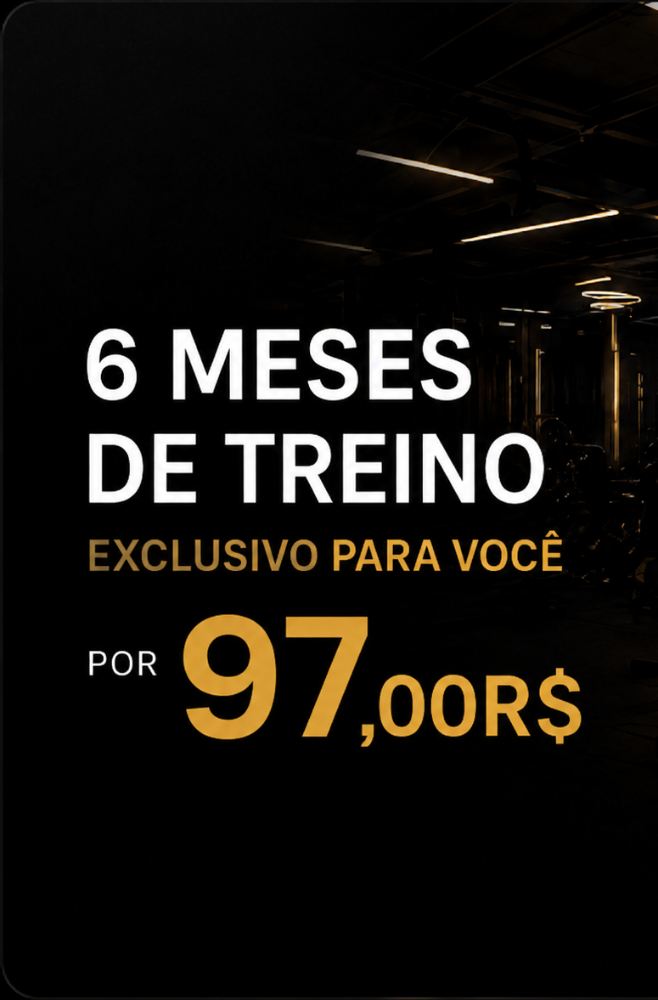
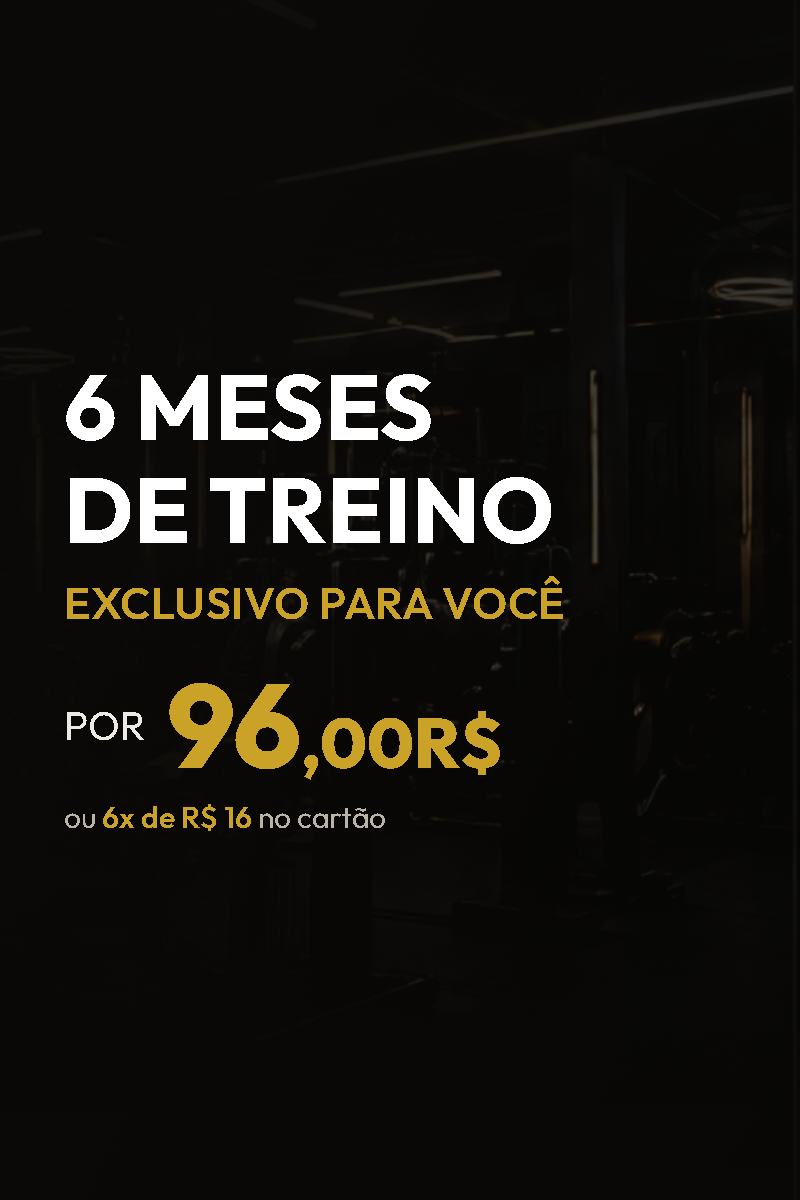
Oferta 6 meses reformulada: R$96, programas e GLUTE MAX/HYBRID PRO (pedido do cliente)
- Novo texto da oferta: 'O plano feito para você: hipertrofia,
  emagrecimento, condicionamento, força — escolha o seu desafio…'
- 'Acesso no app' vira 'Métodos avançados' (ícone alvo) nos dois layouts
- Botão vira ESCOLHER MEU PROGRAMA e abre a lista de programas
  (tela no celular, rolagem no computador); modal da oferta idem (ctaGoto)
- Preço R$97 -> R$96 com 'ou 6x de R$ 16' em letras miúdas na caixa de
  preço, no botão do hero e na arte (nova arte sem o 97 gravado;
  gerador em banners/banner-oferta.html; modal usa a mesma arte)
- Glúteo Protocol renomeado para GLUTE MAX (cards, rodapé, modal, catálogos)
- Novo programa HYBRID PRO (força + condicionamento) nos dois layouts,
  rodapé, DETAILS e catálogos do painel
- Modais dos programas mostram 'R$ 96 à vista ou 6x de R$ 16'

diff --git a/index.html b/index.html
@@ -167,7 +167,7 @@
         <img data-slot="oferta-texto" src="assets/oferta-texto.png" alt="6 meses de treino por R$97" style="width:118px; height:150px; flex:none; border-radius:10px; object-fit:cover; object-position:50% 50%; display:block;">
         <div style="flex:1;">
           <h2 style="margin:0; font-family:'Oswald',sans-serif; font-weight:700; font-style:italic; font-size:25px; line-height:0.96; letter-spacing:0.5px; background:linear-gradient(135deg,var(--c-secondary),var(--c-primary) 55%,var(--c-primary-darker)); -webkit-background-clip:text; background-clip:text; color:transparent;"><span data-text="oferta-titulo">6 MESES DE TREINO EXCLUSIVO</span></h2>
-          <p style="margin:8px 0 0; font-size:12px; color:#A9A399; line-height:1.5;"><span data-text="m-oferta-desc">Para você. Treino individualizado, progressão planejada e acompanhamento direto por 6 meses.</span></p>
+          <p style="margin:8px 0 0; font-size:12px; color:#A9A399; line-height:1.5;"><span data-text="m-oferta-desc">O plano feito para você: hipertrofia, emagrecimento, condicionamento, força — escolha o seu desafio…</span></p>
         </div>
       </div>
       <div style="display:flex; justify-content:space-around; gap:6px; margin:18px 0 16px; padding:0 2px;">
@@ -180,17 +180,18 @@
           <div style="font-family:'Oswald',sans-serif; font-weight:500; font-size:9.5px; letter-spacing:1px; color:#CFC9BE; margin-top:6px; line-height:1.3;">PROGRESSÃO<br>PLANEJADA</div>
         </div>
         <div style="text-align:center; flex:1;">
-          <i data-lucide="smartphone" width="22" height="22" style="color:var(--c-primary);"></i>
-          <div style="font-family:'Oswald',sans-serif; font-weight:500; font-size:9.5px; letter-spacing:1px; color:#CFC9BE; margin-top:6px; line-height:1.3;">ACESSO<br>NO APP</div>
+          <i data-lucide="target" width="22" height="22" style="color:var(--c-primary);"></i>
+          <div style="font-family:'Oswald',sans-serif; font-weight:500; font-size:9.5px; letter-spacing:1px; color:#CFC9BE; margin-top:6px; line-height:1.3;">MÉTODOS<br>AVANÇADOS</div>
         </div>
       </div>
       <div style="display:flex; gap:10px; align-items:stretch;">
         <div style="flex:none; width:110px; border:1.5px solid var(--c-primary); border-radius:8px; padding:8px 6px; text-align:center; background:rgba(var(--c-primary-rgb),0.06);">
           <div style="font-family:'Oswald',sans-serif; font-weight:500; font-size:9px; letter-spacing:2px; color:#9A958B;"><span data-text="oferta-apenas">APENAS</span></div>
-          <div style="font-family:'Oswald',sans-serif; font-weight:700; font-size:28px; line-height:1; color:var(--c-primary);"><span data-text="oferta-preco">R$97</span></div>
+          <div style="font-family:'Oswald',sans-serif; font-weight:700; font-size:28px; line-height:1; color:var(--c-primary);"><span data-text="oferta-preco">R$96</span></div>
+          <div style="font-size:9px; color:#8A857B; margin-top:3px;">ou 6x de R$ 16</div>
         </div>
-        <button data-detail="oferta" style="flex:1; background:linear-gradient(135deg,var(--c-primary),var(--c-primary-dark)); border:none; border-radius:8px; color:var(--c-bg); font-family:'Oswald',sans-serif; font-weight:700; letter-spacing:1px; font-size:13px; cursor:pointer; display:flex; align-items:center; justify-content:center; gap:8px;">
-          <span data-text="oferta-cta">QUERO MEU ACESSO</span> <i data-lucide="arrow-right" width="16" height="16"></i>
+        <button data-screen="programas" style="flex:1; background:linear-gradient(135deg,var(--c-primary),var(--c-primary-dark)); border:none; border-radius:8px; color:var(--c-bg); font-family:'Oswald',sans-serif; font-weight:700; letter-spacing:1px; font-size:13px; cursor:pointer; display:flex; align-items:center; justify-content:center; gap:8px;">
+          <span data-text="oferta-cta">ESCOLHER MEU PROGRAMA</span> <i data-lucide="arrow-right" width="16" height="16"></i>
         </button>
       </div>
     </div>
@@ -312,10 +313,10 @@
           </div>
         </div>
         <div data-detail="gluteoprotocol" style="position:relative; border:1px solid rgba(var(--c-primary-rgb),0.28); border-radius:14px; overflow:hidden; min-height:120px; display:flex; cursor:pointer;">
-          <img data-slot="prog-gluteo" src="assets/prog-gluteo.png" alt="Glúteo Protocol" style="width:118px; flex:none; align-self:stretch; object-fit:cover; object-position:72% 40%; display:block;">
+          <img data-slot="prog-gluteo" src="assets/prog-gluteo.png" alt="Glute Max" style="width:118px; flex:none; align-self:stretch; object-fit:cover; object-position:72% 40%; display:block;">
           <div style="flex:1; padding:16px 16px 16px 14px;">
             <div style="width:38px; height:38px; border-radius:10px; background:linear-gradient(135deg,var(--c-sg),var(--c-sh)); border:1px solid rgba(var(--c-primary-rgb),0.4); display:flex; align-items:center; justify-content:center; margin-bottom:8px;"><i data-lucide="heart" width="20" height="20" style="color:var(--c-primary);"></i></div>
-            <h3 style="margin:0; font-family:'Oswald',sans-serif; font-weight:600; font-size:18px; letter-spacing:0.5px;"><span data-text="prog-gluteoprotocol-nome">GLÚTEO PROTOCOL</span></h3>
+            <h3 style="margin:0; font-family:'Oswald',sans-serif; font-weight:600; font-size:18px; letter-spacing:0.5px;"><span data-text="prog-gluteoprotocol-nome">GLUTE MAX</span></h3>
             <div style="font-family:'Oswald',sans-serif; font-weight:500; font-size:10px; letter-spacing:1.5px; color:var(--c-primary); margin:2px 0 8px;"><span data-text="prog-gluteoprotocol-cat">CRESCIMENTO E DEFINIÇÃO</span></div>
             <span style="font-size:12px; color:var(--c-primary); display:inline-flex; align-items:center; gap:5px;">Saiba mais <i data-lucide="arrow-right" width="13" height="13"></i></span>
           </div>
@@ -335,6 +336,15 @@
             <div style="width:38px; height:38px; border-radius:10px; background:linear-gradient(135deg,var(--c-sg),var(--c-sh)); border:1px solid rgba(var(--c-primary-rgb),0.4); display:flex; align-items:center; justify-content:center; margin-bottom:8px;"><i data-lucide="zap" width="20" height="20" style="color:var(--c-primary);"></i></div>
             <h3 style="margin:0; font-family:'Oswald',sans-serif; font-weight:600; font-size:18px; letter-spacing:0.5px;"><span data-text="prog-pump100-nome">PUMP 100</span></h3>
             <div style="font-family:'Oswald',sans-serif; font-weight:500; font-size:10px; letter-spacing:1.5px; color:var(--c-primary); margin:2px 0 8px;"><span data-text="prog-pump100-cat">HIPERTROFIA</span></div>
+            <span style="font-size:12px; color:var(--c-primary); display:inline-flex; align-items:center; gap:5px;">Saiba mais <i data-lucide="arrow-right" width="13" height="13"></i></span>
+          </div>
+        </div>
+        <div data-detail="hybridpro" style="position:relative; border:1px solid rgba(var(--c-primary-rgb),0.28); border-radius:14px; overflow:hidden; min-height:120px; display:flex; cursor:pointer;">
+          <img data-slot="oferta-gym" src="assets/oferta-gym.png" alt="Hybrid Pro" style="width:118px; flex:none; align-self:stretch; object-fit:cover; object-position:50% 40%; display:block;">
+          <div style="flex:1; padding:16px 16px 16px 14px;">
+            <div style="width:38px; height:38px; border-radius:10px; background:linear-gradient(135deg,var(--c-sg),var(--c-sh)); border:1px solid rgba(var(--c-primary-rgb),0.4); display:flex; align-items:center; justify-content:center; margin-bottom:8px;"><i data-lucide="activity" width="20" height="20" style="color:var(--c-primary);"></i></div>
+            <h3 style="margin:0; font-family:'Oswald',sans-serif; font-weight:600; font-size:18px; letter-spacing:0.5px;"><span data-text="prog-hybridpro-nome">HYBRID PRO</span></h3>
+            <div style="font-family:'Oswald',sans-serif; font-weight:500; font-size:10px; letter-spacing:1.5px; color:var(--c-primary); margin:2px 0 8px;"><span data-text="prog-hybridpro-cat">FORÇA + CONDICIONAMENTO</span></div>
             <span style="font-size:12px; color:var(--c-primary); display:inline-flex; align-items:center; gap:5px;">Saiba mais <i data-lucide="arrow-right" width="13" height="13"></i></span>
           </div>
         </div>
@@ -438,7 +448,7 @@
         <p style="margin:0 0 34px; max-width:440px; font-size:16px; color:#A9A399; line-height:1.7;"><span data-text="d-hero-desc">Transforme seu corpo e sua vida com método, disciplina e acompanhamento individualizado. Resultados de verdade, do seu jeito.</span></p>
         <div style="display:flex; gap:16px;">
           <button data-nav="programas" style="display:flex; align-items:center; gap:12px; padding:16px 30px; background:linear-gradient(135deg,var(--c-primary),var(--c-primary-dark)); border:none; border-radius:8px; color:var(--c-bg); font-family:'Oswald',sans-serif; font-weight:700; letter-spacing:1px; font-size:15px; cursor:pointer;"><span data-text="cta-servicos">6 MESES DE TREINO EXCLUSIVO</span> <svg width="18" height="18" viewBox="0 0 24 24" fill="none" stroke="#0A0908" stroke-width="2.4" stroke-linecap="round" stroke-linejoin="round"><line x1="5" y1="12" x2="19" y2="12"></line><polyline points="12 5 19 12 12 19"></polyline></svg></button>
-          <button data-detail="oferta" style="display:flex; align-items:center; gap:10px; padding:16px 30px; background:transparent; border:1.5px solid rgba(var(--c-primary-rgb),0.55); border-radius:8px; color:#fff; font-family:'Oswald',sans-serif; font-weight:600; letter-spacing:1px; font-size:15px; cursor:pointer;"><span data-text="d-hero-oferta-btn">OFERTA R$97</span></button>
+          <button data-detail="oferta" style="display:flex; align-items:center; gap:10px; padding:16px 30px; background:transparent; border:1.5px solid rgba(var(--c-primary-rgb),0.55); border-radius:8px; color:#fff; font-family:'Oswald',sans-serif; font-weight:600; letter-spacing:1px; font-size:15px; cursor:pointer;"><span data-text="d-hero-oferta-btn">OFERTA R$96</span></button>
         </div>
       </div>
       <div style="position:relative; align-self:stretch; min-height:660px;">
@@ -565,11 +575,11 @@
         </div>
         <!-- Glúteo Protocol -->
         <div data-detail="gluteoprotocol" style="position:relative; min-height:300px; border:1px solid rgba(var(--c-primary-rgb),0.25); border-radius:16px; overflow:hidden; cursor:pointer;">
-          <img data-slot="prog-gluteo" src="assets/prog-gluteo.png" alt="Glúteo Protocol" style="position:absolute; inset:0; width:100%; height:100%; object-fit:cover; object-position:75% 40%;">
+          <img data-slot="prog-gluteo" src="assets/prog-gluteo.png" alt="Glute Max" style="position:absolute; inset:0; width:100%; height:100%; object-fit:cover; object-position:75% 40%;">
           <div style="position:absolute; inset:0; background:linear-gradient(180deg,rgba(var(--c-bg-rgb),0.55),rgba(var(--c-bg-rgb),0.92) 60%);"></div>
           <div style="position:relative; padding:26px;">
             <div style="width:48px; height:48px; border-radius:12px; background:linear-gradient(135deg,var(--c-sg),var(--c-sh)); border:1px solid rgba(var(--c-primary-rgb),0.45); display:flex; align-items:center; justify-content:center; margin-bottom:120px;"><i data-lucide="heart" width="24" height="24" style="color:var(--c-primary);"></i></div>
-            <h3 style="margin:0; font-family:'Oswald',sans-serif; font-weight:600; font-size:26px;"><span data-text="prog-gluteoprotocol-nome">GLÚTEO PROTOCOL</span></h3>
+            <h3 style="margin:0; font-family:'Oswald',sans-serif; font-weight:600; font-size:26px;"><span data-text="prog-gluteoprotocol-nome">GLUTE MAX</span></h3>
             <div style="font-family:'Oswald',sans-serif; font-weight:500; font-size:11px; letter-spacing:2px; color:var(--c-primary); margin:4px 0 12px;"><span data-text="prog-gluteoprotocol-cat">CRESCIMENTO E DEFINIÇÃO</span></div>
             <p style="margin:0 0 14px; font-size:13.5px; color:#C3BDB2; line-height:1.55;"><span data-text="d-prog-gluteoprotocol-desc">Treinos e estratégias específicas para desenvolver, levantar e definir seus glúteos.</span></p>
             <span style="font-size:13px; color:var(--c-primary); display:inline-flex; align-items:center; gap:6px;">Saiba mais <svg width="14" height="14" viewBox="0 0 24 24" fill="none" stroke="currentColor" stroke-width="2.4" stroke-linecap="round" stroke-linejoin="round"><line x1="5" y1="12" x2="19" y2="12"></line><polyline points="12 5 19 12 12 19"></polyline></svg></span>
@@ -596,6 +606,18 @@
             <h3 style="margin:0; font-family:'Oswald',sans-serif; font-weight:600; font-size:26px;"><span data-text="prog-pump100-nome">PUMP 100</span></h3>
             <div style="font-family:'Oswald',sans-serif; font-weight:500; font-size:11px; letter-spacing:2px; color:var(--c-primary); margin:4px 0 12px;"><span data-text="prog-pump100-cat">HIPERTROFIA</span></div>
             <p style="margin:0 0 14px; font-size:13.5px; color:#C3BDB2; line-height:1.55;"><span data-text="d-prog-pump100-desc">Métodos avançados de treino para maximizar o ganho de massa muscular.</span></p>
+            <span style="font-size:13px; color:var(--c-primary); display:inline-flex; align-items:center; gap:6px;">Saiba mais <svg width="14" height="14" viewBox="0 0 24 24" fill="none" stroke="currentColor" stroke-width="2.4" stroke-linecap="round" stroke-linejoin="round"><line x1="5" y1="12" x2="19" y2="12"></line><polyline points="12 5 19 12 12 19"></polyline></svg></span>
+          </div>
+        </div>
+        <!-- Hybrid Pro -->
+        <div data-detail="hybridpro" style="position:relative; min-height:300px; border:1px solid rgba(var(--c-primary-rgb),0.25); border-radius:16px; overflow:hidden; cursor:pointer;">
+          <img data-slot="oferta-gym" src="assets/oferta-gym.png" alt="Hybrid Pro" style="position:absolute; inset:0; width:100%; height:100%; object-fit:cover; object-position:50% 45%;">
+          <div style="position:absolute; inset:0; background:linear-gradient(180deg,rgba(var(--c-bg-rgb),0.55),rgba(var(--c-bg-rgb),0.92) 60%);"></div>
+          <div style="position:relative; padding:26px;">
+            <div style="width:48px; height:48px; border-radius:12px; background:linear-gradient(135deg,var(--c-sg),var(--c-sh)); border:1px solid rgba(var(--c-primary-rgb),0.45); display:flex; align-items:center; justify-content:center; margin-bottom:120px;"><i data-lucide="activity" width="24" height="24" style="color:var(--c-primary);"></i></div>
+            <h3 style="margin:0; font-family:'Oswald',sans-serif; font-weight:600; font-size:26px;"><span data-text="prog-hybridpro-nome">HYBRID PRO</span></h3>
+            <div style="font-family:'Oswald',sans-serif; font-weight:500; font-size:11px; letter-spacing:2px; color:var(--c-primary); margin:4px 0 12px;"><span data-text="prog-hybridpro-cat">FORÇA + CONDICIONAMENTO</span></div>
+            <p style="margin:0 0 14px; font-size:13.5px; color:#C3BDB2; line-height:1.55;"><span data-text="d-prog-hybridpro-desc">Força e condicionamento no mesmo programa, para performance completa.</span></p>
             <span style="font-size:13px; color:var(--c-primary); display:inline-flex; align-items:center; gap:6px;">Saiba mais <svg width="14" height="14" viewBox="0 0 24 24" fill="none" stroke="currentColor" stroke-width="2.4" stroke-linecap="round" stroke-linejoin="round"><line x1="5" y1="12" x2="19" y2="12"></line><polyline points="12 5 19 12 12 19"></polyline></svg></span>
           </div>
         </div>
@@ -645,18 +667,19 @@
         <div style="padding:46px 50px;">
           <div style="font-family:'Oswald',sans-serif; font-weight:500; letter-spacing:4px; font-size:12px; color:var(--c-primary); margin-bottom:14px;"><span data-text="d-oferta-kicker">OFERTA ESPECIAL</span></div>
           <h2 style="margin:0; font-family:'Oswald',sans-serif; font-weight:700; font-style:italic; font-size:44px; line-height:0.98; background:linear-gradient(135deg,var(--c-secondary),var(--c-primary) 55%,var(--c-primary-darker)); -webkit-background-clip:text; background-clip:text; color:transparent;"><span data-text="oferta-titulo">6 MESES DE TREINO EXCLUSIVO</span></h2>
-          <p style="margin:16px 0 26px; max-width:520px; font-size:15px; color:#A9A399; line-height:1.65;"><span data-text="d-oferta-desc">Para você. Treino individualizado, progressão planejada e acompanhamento direto por 6 meses — tudo pelo aplicativo.</span></p>
+          <p style="margin:16px 0 26px; max-width:520px; font-size:15px; color:#A9A399; line-height:1.65;"><span data-text="d-oferta-desc">O plano feito para você: hipertrofia, emagrecimento, condicionamento, força — escolha o seu desafio…</span></p>
           <div style="display:flex; gap:40px; margin-bottom:30px;">
             <div style="display:flex; align-items:center; gap:12px;"><i data-lucide="calendar-check" width="26" height="26" style="color:var(--c-primary);"></i><span style="font-family:'Oswald',sans-serif; font-weight:500; font-size:12px; letter-spacing:1px; color:#CFC9BE;">6 MESES<br>DE TREINO</span></div>
             <div style="display:flex; align-items:center; gap:12px;"><i data-lucide="trending-up" width="26" height="26" style="color:var(--c-primary);"></i><span style="font-family:'Oswald',sans-serif; font-weight:500; font-size:12px; letter-spacing:1px; color:#CFC9BE;">PROGRESSÃO<br>PLANEJADA</span></div>
-            <div style="display:flex; align-items:center; gap:12px;"><i data-lucide="smartphone" width="26" height="26" style="color:var(--c-primary);"></i><span style="font-family:'Oswald',sans-serif; font-weight:500; font-size:12px; letter-spacing:1px; color:#CFC9BE;">ACESSO<br>NO APP</span></div>
+            <div style="display:flex; align-items:center; gap:12px;"><i data-lucide="target" width="26" height="26" style="color:var(--c-primary);"></i><span style="font-family:'Oswald',sans-serif; font-weight:500; font-size:12px; letter-spacing:1px; color:#CFC9BE;">MÉTODOS<br>AVANÇADOS</span></div>
           </div>
           <div style="display:flex; align-items:stretch; gap:18px;">
             <div style="flex:none; border:1.5px solid var(--c-primary); border-radius:12px; padding:12px 26px; text-align:center; background:rgba(var(--c-primary-rgb),0.06);">
               <div style="font-family:'Oswald',sans-serif; font-weight:500; font-size:10px; letter-spacing:3px; color:#9A958B;"><span data-text="oferta-apenas">APENAS</span></div>
-              <div style="font-family:'Oswald',sans-serif; font-weight:700; font-size:46px; line-height:1; color:var(--c-primary);"><span data-text="oferta-preco">R$97</span></div>
+              <div style="font-family:'Oswald',sans-serif; font-weight:700; font-size:46px; line-height:1; color:var(--c-primary);"><span data-text="oferta-preco">R$96</span></div>
+              <div style="font-size:11px; color:#8A857B; margin-top:4px;">ou 6x de R$ 16</div>
             </div>
-            <button data-detail="oferta" style="flex:1; max-width:340px; background:linear-gradient(135deg,var(--c-primary),var(--c-primary-dark)); border:none; border-radius:12px; color:var(--c-bg); font-family:'Oswald',sans-serif; font-weight:700; letter-spacing:1px; font-size:16px; cursor:pointer; display:flex; align-items:center; justify-content:center; gap:10px;"><span data-text="oferta-cta">QUERO MEU ACESSO</span> <svg width="18" height="18" viewBox="0 0 24 24" fill="none" stroke="#0A0908" stroke-width="2.4" stroke-linecap="round" stroke-linejoin="round"><line x1="5" y1="12" x2="19" y2="12"></line><polyline points="12 5 19 12 12 19"></polyline></svg></button>
+            <button data-nav="programas" style="flex:1; max-width:340px; background:linear-gradient(135deg,var(--c-primary),var(--c-primary-dark)); border:none; border-radius:12px; color:var(--c-bg); font-family:'Oswald',sans-serif; font-weight:700; letter-spacing:1px; font-size:16px; cursor:pointer; display:flex; align-items:center; justify-content:center; gap:10px;"><span data-text="oferta-cta">ESCOLHER MEU PROGRAMA</span> <svg width="18" height="18" viewBox="0 0 24 24" fill="none" stroke="#0A0908" stroke-width="2.4" stroke-linecap="round" stroke-linejoin="round"><line x1="5" y1="12" x2="19" y2="12"></line><polyline points="12 5 19 12 12 19"></polyline></svg></button>
           </div>
         </div>
       </div>
@@ -732,9 +755,10 @@
         <div style="font-family:'Oswald',sans-serif; font-weight:600; letter-spacing:1.5px; font-size:14px; color:#fff; margin-bottom:18px;">PROGRAMAS</div>
         <div style="display:flex; flex-direction:column; gap:12px;">
           <a data-detail="fitslim" style="cursor:pointer; font-size:14px; color:#A9A399;">Fit Slim</a>
-          <a data-detail="gluteoprotocol" style="cursor:pointer; font-size:14px; color:#A9A399;">Glúteo Protocol</a>
+          <a data-detail="gluteoprotocol" style="cursor:pointer; font-size:14px; color:#A9A399;">Glute Max</a>
           <a data-detail="gorilla" style="cursor:pointer; font-size:14px; color:#A9A399;">Gorilla Strength</a>
           <a data-detail="pump100" style="cursor:pointer; font-size:14px; color:#A9A399;">Pump 100</a>
+          <a data-detail="hybridpro" style="cursor:pointer; font-size:14px; color:#A9A399;">Hybrid Pro</a>
         </div>
       </div>
       <div>
@@ -820,11 +844,12 @@ var DETAILS = {
     cta: 'FALAR NO WHATSAPP', ctaNote: 'Atendimento exclusivo e limitado. Fale comigo para verificar disponibilidade.', img: 'assets/poster-personal.png', msg: 'Olá, Lucas! Tenho interesse no Personal Presencial. Ainda há disponibilidade?' },
   avaliacao: { kicker: 'SERVIÇO', title: 'AVALIAÇÃO FÍSICA', desc: 'Análise completa da sua composição corporal e do seu condicionamento para construir um plano 100% personalizado.', points: ['Anamnese', 'Avaliação física (dobras cutâneas)', 'Avaliação da força e resistência', 'Condicionamento aeróbico'], cta: 'AGENDAR AVALIAÇÃO', ctaNote: 'Agende sua avaliação física completa.', img: 'assets/poster-avaliacao.png', msg: 'Olá, Lucas! Quero agendar uma Avaliação Física.' },
   nutricional: { kicker: 'EM BREVE', title: 'ATENDIMENTO NUTRICIONAL ONLINE', desc: 'Em breve: a nutrição certa para potencializar seus resultados, integrada ao seu treino.', points: [], cta: 'QUERO SER AVISADO', ctaNote: 'Entre na lista de espera e seja avisado no lançamento.', img: 'assets/poster-nutricional.png', msg: 'Olá, Lucas! Quero entrar na lista de espera do Atendimento Nutricional Online.' },
-  oferta: { kicker: 'OFERTA ESPECIAL', title: '6 MESES DE TREINO EXCLUSIVO', desc: '6 meses de treino exclusivo para você por apenas R$97,00. Treino individualizado, progressão planejada e acompanhamento direto.', points: ['6 meses de treino exclusivo', 'Progressão planejada', 'Acesso pelo aplicativo', 'Suporte direto com o Lucas'], cta: 'QUERO MEU ACESSO — R$97', ctaNote: 'Vagas limitadas por esse valor.', img: 'assets/oferta.png', msg: 'Olá, Lucas! Quero garantir a oferta de 6 meses de treino por R$97.' },
-  fitslim: { kicker: 'EMAGRECIMENTO', title: 'FIT SLIM', desc: 'Protocolo completo para queimar gordura, acelerar o metabolismo e definir o corpo.', points: ['Treino focado em emagrecimento', 'Estratégias para acelerar o metabolismo', 'Progressão planejada', 'Acompanhamento pelo app'], cta: 'QUERO O FIT SLIM', ctaNote: 'Comece sua transformação agora.', img: 'assets/prog-fitslim.png', msg: 'Olá, Lucas! Quero começar o programa FIT SLIM.' },
-  gluteoprotocol: { kicker: 'CRESCIMENTO E DEFINIÇÃO', title: 'GLÚTEO PROTOCOL', desc: 'Treinos e estratégias específicas para desenvolver, levantar e definir seus glúteos.', points: ['Treino específico para glúteos', 'Técnicas de ativação e crescimento', 'Progressão semanal', 'Acompanhamento pelo app'], cta: 'QUERO O PROTOCOL', ctaNote: 'Construa o resultado que você procura.', img: 'assets/prog-gluteo.png', msg: 'Olá, Lucas! Quero começar o GLÚTEO PROTOCOL.' },
-  gorilla: { kicker: 'GANHO DE FORÇA', title: 'GORILLA STRENGTH', desc: 'Programa focado em força máxima, performance e evolução constante.', points: ['Periodização de força', 'Foco em performance', 'Progressão de cargas planejada', 'Acompanhamento pelo app'], cta: 'QUERO O GORILLA', ctaNote: 'Evolua sua força de forma constante.', img: 'assets/prog-gorilla.png', msg: 'Olá, Lucas! Quero começar o GORILLA STRENGTH.' },
-  pump100: { kicker: 'HIPERTROFIA', title: 'PUMP 100', desc: 'Métodos avançados de treino para maximizar o ganho de massa muscular.', points: ['Métodos avançados de hipertrofia', 'Volume e intensidade otimizados', 'Progressão planejada', 'Acompanhamento pelo app'], cta: 'QUERO O PUMP 100', ctaNote: 'Maximize seu ganho de massa.', img: 'assets/prog-pump100.png', msg: 'Olá, Lucas! Quero começar o PUMP 100.' },
+  oferta: { kicker: 'OFERTA ESPECIAL', title: '6 MESES DE TREINO EXCLUSIVO', desc: 'O plano feito para você: hipertrofia, emagrecimento, condicionamento, força — escolha o seu desafio. 6 meses de treino exclusivo por R$ 96 à vista ou 6x de R$ 16.', points: ['6 meses de treino exclusivo', 'Progressão planejada', 'Métodos avançados', 'Suporte direto com o Lucas'], cta: 'ESCOLHER MEU PROGRAMA', ctaGoto: 'programas', ctaNote: 'R$ 96 à vista ou 6x de R$ 16 — vagas limitadas.', img: 'assets/oferta-texto.png', msg: 'Olá, Lucas! Quero garantir os 6 meses de treino por R$ 96.' },
+  fitslim: { kicker: 'EMAGRECIMENTO', title: 'FIT SLIM', desc: 'Protocolo completo para queimar gordura, acelerar o metabolismo e definir o corpo.', points: ['Treino focado em emagrecimento', 'Estratégias para acelerar o metabolismo', 'Progressão planejada', 'Acompanhamento pelo app'], cta: 'QUERO O FIT SLIM', ctaNote: 'R$ 96 à vista ou 6x de R$ 16.', img: 'assets/prog-fitslim.png', msg: 'Olá, Lucas! Quero começar o programa FIT SLIM.' },
+  gluteoprotocol: { kicker: 'CRESCIMENTO E DEFINIÇÃO', title: 'GLUTE MAX', desc: 'Treinos e estratégias específicas para desenvolver, levantar e definir seus glúteos.', points: ['Treino específico para glúteos', 'Técnicas de ativação e crescimento', 'Progressão semanal', 'Métodos avançados'], cta: 'QUERO O GLUTE MAX', ctaNote: 'R$ 96 à vista ou 6x de R$ 16.', img: 'assets/prog-gluteo.png', msg: 'Olá, Lucas! Quero começar o GLUTE MAX.' },
+  gorilla: { kicker: 'GANHO DE FORÇA', title: 'GORILLA STRENGTH', desc: 'Programa focado em força máxima, performance e evolução constante.', points: ['Periodização de força', 'Foco em performance', 'Progressão de cargas planejada', 'Acompanhamento pelo app'], cta: 'QUERO O GORILLA', ctaNote: 'R$ 96 à vista ou 6x de R$ 16.', img: 'assets/prog-gorilla.png', msg: 'Olá, Lucas! Quero começar o GORILLA STRENGTH.' },
+  pump100: { kicker: 'HIPERTROFIA', title: 'PUMP 100', desc: 'Métodos avançados de treino para maximizar o ganho de massa muscular.', points: ['Métodos avançados de hipertrofia', 'Volume e intensidade otimizados', 'Progressão planejada', 'Acompanhamento pelo app'], cta: 'QUERO O PUMP 100', ctaNote: 'R$ 96 à vista ou 6x de R$ 16.', img: 'assets/prog-pump100.png', msg: 'Olá, Lucas! Quero começar o PUMP 100.' },
+  hybridpro: { kicker: 'FORÇA + CONDICIONAMENTO', title: 'HYBRID PRO', desc: 'Força e condicionamento no mesmo programa, para performance completa.', points: ['Força e aeróbico integrados', 'Progressão planejada', 'Métodos avançados', 'Suporte direto com o Lucas'], cta: 'QUERO O HYBRID PRO', ctaNote: 'R$ 96 à vista ou 6x de R$ 16.', img: 'assets/oferta-gym.png', msg: 'Olá, Lucas! Quero começar o HYBRID PRO.' },
   consultoriapremium: { kicker: 'ONLINE', title: 'CONSULTORIA PREMIUM', desc: 'Acompanhamento individualizado 100% online com suporte diário e ajustes estratégicos.', points: ['Suporte diário com o Lucas', 'Ajustes estratégicos contínuos', 'Plano de treino e dieta', 'Acompanhamento premium pelo app'], cta: 'FALAR NO WHATSAPP', ctaNote: 'Vagas limitadas. Fale comigo para verificar disponibilidade.', img: 'assets/prog-premium.png', msg: 'Olá, Lucas! Tenho interesse na Consultoria Premium. Ainda há vagas?' },
   resultados: { kicker: 'TRANSFORMAÇÕES', title: 'RESULTADOS REAIS', desc: 'Resultados reais de alunos que confiaram no método e transformaram o corpo e a vida.', points: [], cta: 'QUERO ESSES RESULTADOS', ctaNote: 'Seja o próximo resultado real.', img: 'assets/resultado-1.jpg', msg: 'Olá, Lucas! Vi os resultados no site e quero começar minha transformação.' },
   sobre: { kicker: 'SOBRE MIM', title: 'LUCAS GONÇALVES', desc: 'Sou Lucas Gonçalves, personal trainer e especialista em hipertrofia, emagrecimento e performance. Meu objetivo é transformar vidas através de método, disciplina e acompanhamento individualizado.', points: ['+500 alunos transformados', 'Experiência comprovada', 'Atendimento individualizado', 'Método que gera resultado'], cta: 'FALAR COMIGO', ctaNote: 'Vamos construir o seu resultado juntos.', img: 'assets/sobre.jpg', msg: 'Olá, Lucas! Vim pelo site e quero saber mais sobre o seu acompanhamento.' },
@@ -897,7 +922,8 @@ function fillDetail(id){
     g('desc').hidden = !d.desc;
     g('ctanote').textContent = d.ctaNote;
     g('cta-label').textContent = d.cta;
-    g('cta').setAttribute('data-wa', id);
+    if (d.ctaGoto) { g('cta').setAttribute('data-goto', d.ctaGoto); g('cta').removeAttribute('data-wa'); }
+    else { g('cta').setAttribute('data-wa', id); g('cta').removeAttribute('data-goto'); }
     var has = d.points && d.points.length;
     g('points').hidden = !has;
     g('points-list').innerHTML = !has ? '' : d.points.map(function(pt){
@@ -978,6 +1004,11 @@ document.addEventListener('click', function(e){
   if ((t = e.target.closest('[data-acc]')))    { var s = el('m-menu-servicos'); s.hidden = !s.hidden; return; }
   if ((t = e.target.closest('[data-nav]')))    { navTo(t.getAttribute('data-nav')); return; }
   if ((t = e.target.closest('[data-screen]'))) { showScreen(t.getAttribute('data-screen')); return; }
+  if ((t = e.target.closest('[data-goto]'))) {
+    var alvo = t.getAttribute('data-goto');
+    if (window.matchMedia('(min-width:1020px)').matches) navTo(alvo); else showScreen(alvo);
+    return;
+  }
   if ((t = e.target.closest('[data-wa]')))     { openWA(t.getAttribute('data-wa')); return; }
   if ((t = e.target.closest('[data-detail]'))) { openDetail(t.getAttribute('data-detail')); return; }
   if ((t = e.target.closest('[data-ig]')))     { window.open('https://instagram.com/' + INSTAGRAM, '_blank'); return; }

diff --git a/banners/banner-oferta.html b/banners/banner-oferta.html
@@ -1,0 +1,39 @@
+<!doctype html>
+<html>
+<head>
+<meta charset="utf-8">
+<link rel="preconnect" href="https://fonts.googleapis.com">
+<link rel="preconnect" href="https://fonts.gstatic.com" crossorigin>
+<link href="https://fonts.googleapis.com/css2?family=Outfit:wght@400;600;700;800&display=swap" rel="stylesheet">
+<style>
+  *{ margin:0; padding:0; box-sizing:border-box; }
+  html,body{ width:800px; height:1200px; overflow:hidden; }
+  .stage{ position:relative; width:800px; height:1200px; background:#0A0908; font-family:'Outfit',sans-serif; overflow:hidden; }
+  .gym{ position:absolute; inset:0; width:100%; height:100%; object-fit:cover; object-position:70% 30%; opacity:0.55; }
+  .fade{ position:absolute; inset:0; background:linear-gradient(115deg, rgba(10,9,8,0.92) 30%, rgba(10,9,8,0.55) 60%, rgba(10,9,8,0.25) 100%); }
+  .fade2{ position:absolute; inset:0; background:linear-gradient(180deg, rgba(10,9,8,0.5) 0%, rgba(10,9,8,0) 22%, rgba(10,9,8,0) 72%, rgba(10,9,8,0.7) 100%); }
+  .texto{ position:absolute; left:64px; top:355px; z-index:3; }
+  .t1{ font-weight:700; font-size:92px; line-height:1.12; color:#fff; letter-spacing:0.5px; }
+  .t2{ margin-top:14px; font-weight:600; font-size:44px; color:#C9A227; letter-spacing:0.5px; }
+  .preco{ margin-top:36px; display:flex; align-items:center; gap:22px; }
+  .preco .por{ font-weight:400; font-size:40px; color:#EDEAE3; }
+  .preco .val{ font-weight:800; font-size:118px; line-height:1; color:#C9A227; }
+  .preco .val small{ font-size:70px; font-weight:800; }
+  .parc{ margin-top:14px; font-weight:400; font-size:30px; color:#B9B3A8; }
+  .parc b{ color:#C9A227; font-weight:600; }
+</style>
+</head>
+<body>
+<div class="stage">
+  <img class="gym" src="../assets/oferta-gym.png" alt="">
+  <div class="fade"></div>
+  <div class="fade2"></div>
+  <div class="texto">
+    <div class="t1">6 MESES<br>DE TREINO</div>
+    <div class="t2">EXCLUSIVO PARA VOCÊ</div>
+    <div class="preco"><span class="por">POR</span><span class="val">96<small>,00R$</small></span></div>
+    <div class="parc">ou <b>6x de R$ 16</b> no cartão</div>
+  </div>
+</div>
+</body>
+</html>
